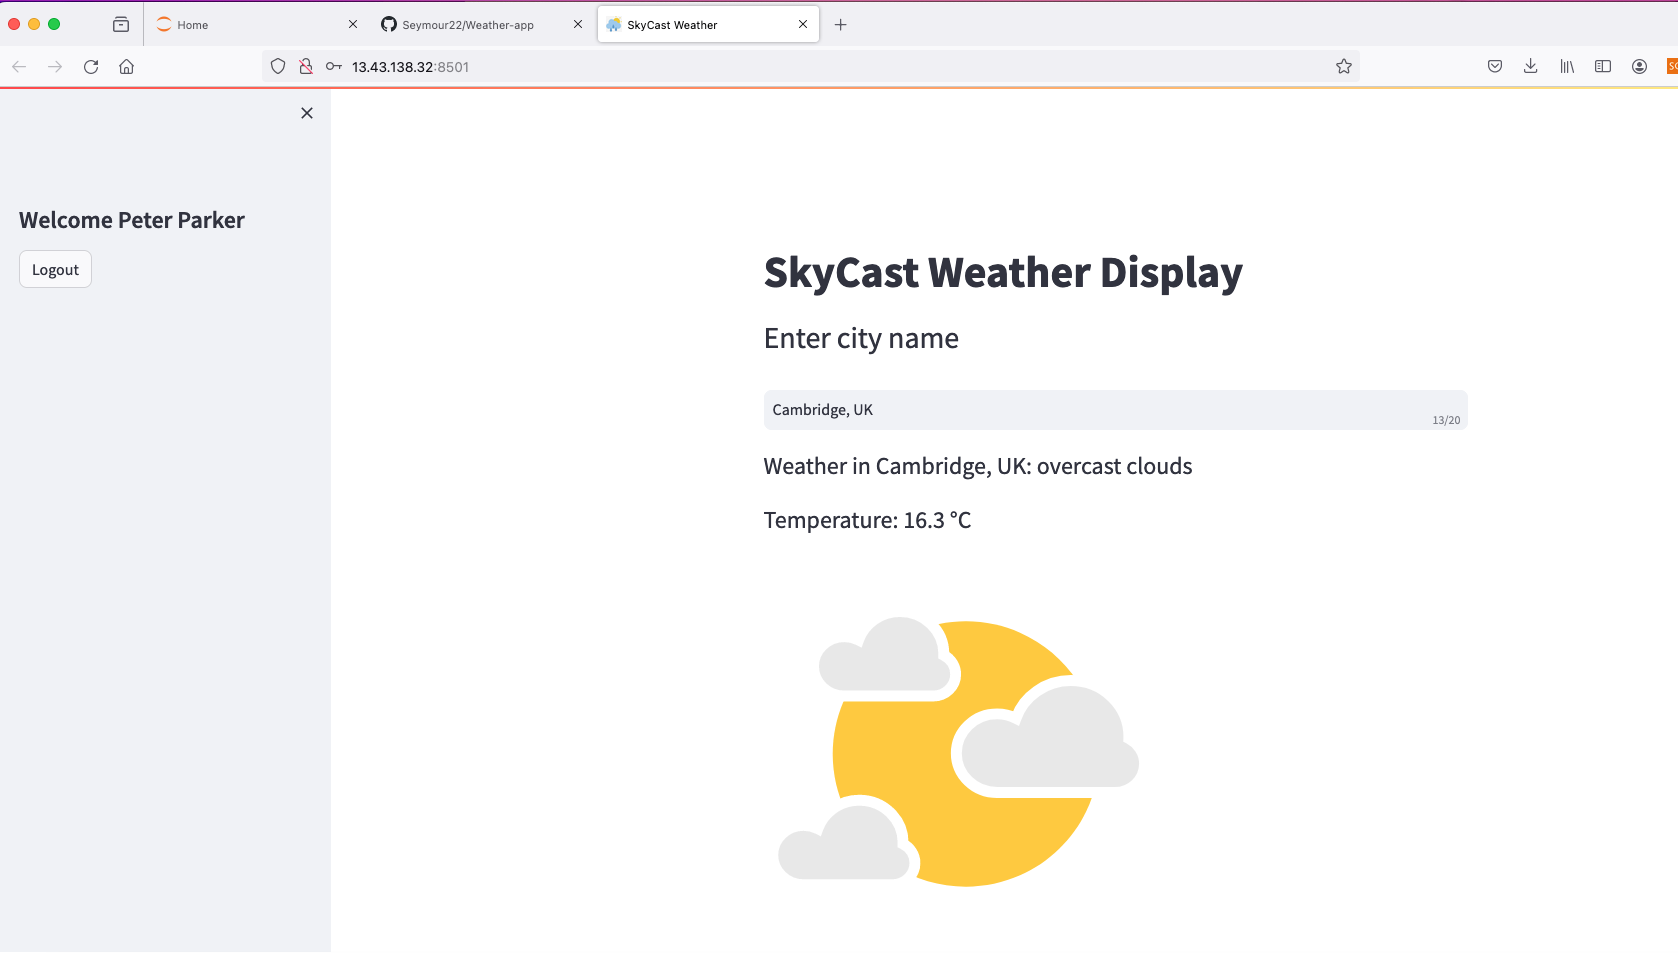
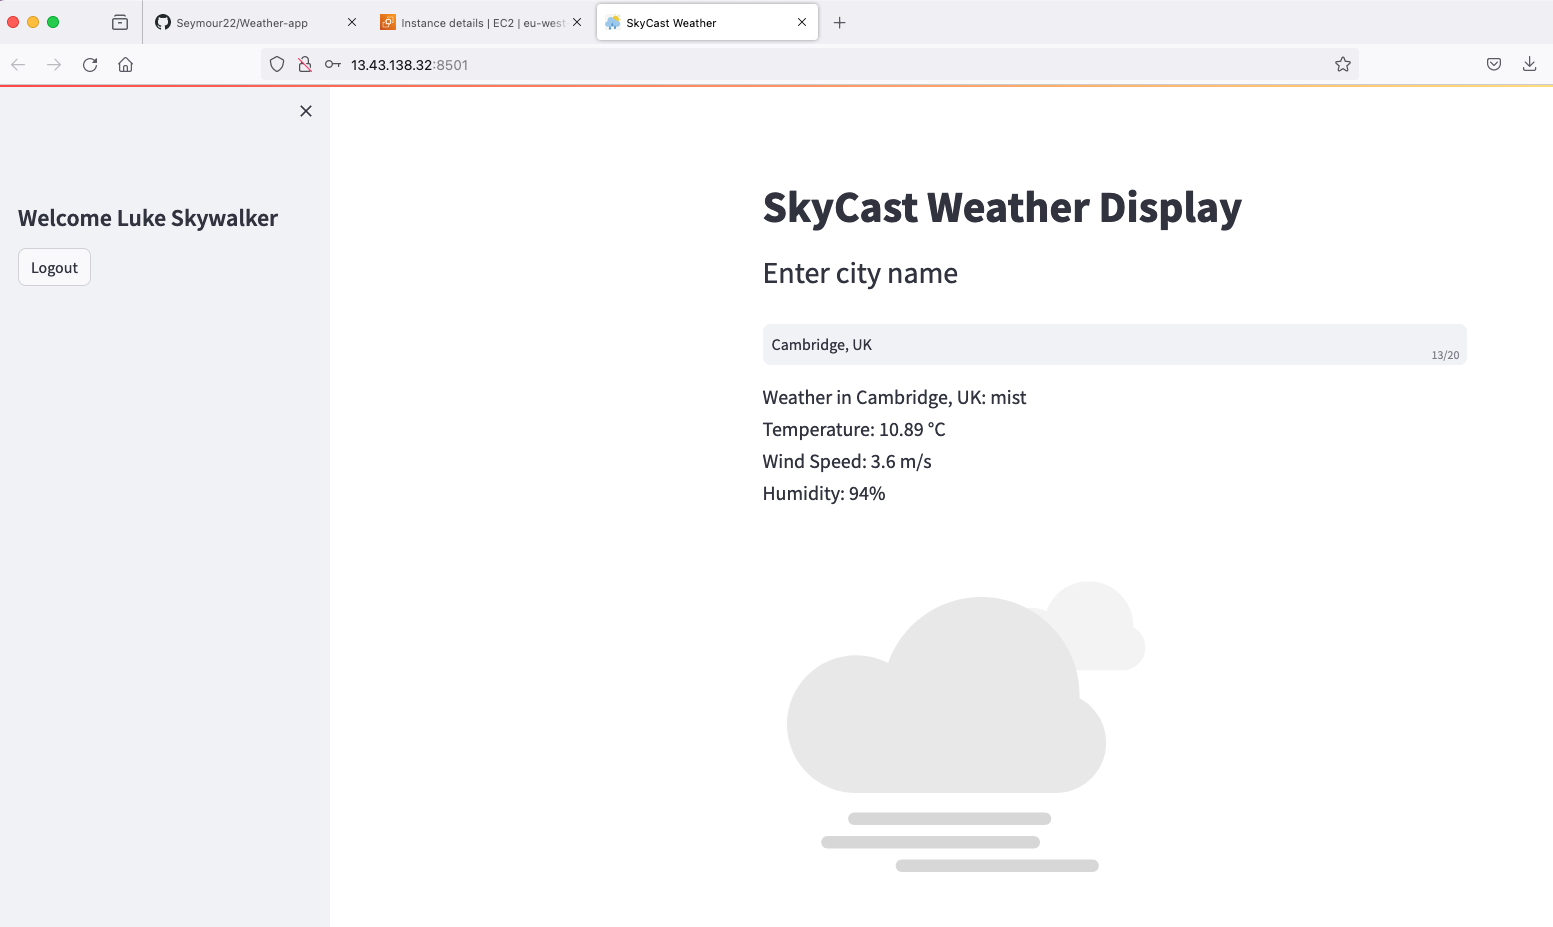
Add files via upload

diff --git a/app.py b/app.py
@@ -1,11 +1,16 @@
 import pickle
+import pandas as pd
 from pathlib import Path
 from PIL import Image
 import streamlit as st
 import streamlit_authenticator as stauth
-import requests
 from streamlit_lottie import st_lottie
 import json
+
+import requests
+import threading
+import time
+
 
 icon = Image.open("icon.png")
 
@@ -23,49 +28,63 @@ defaultweather=load_lottiefile('Animations/defaultweather.json')
 
 # Function to retrieve weather data from API
 def get_weather(city):
-    # Replace 'API_KEY' with your actual API key
     api_key = '82f2c5b88afed0120c09e5532e359422'
     url = f'http://api.openweathermap.org/data/2.5/weather?q={city}&appid={api_key}&units=metric'
     response = requests.get(url)
     data = response.json()
     return data
 
+# Display the weather  info and animation
 def weather_display():
     st.title('SkyCast Weather Display')
-    st.markdown("<p style='font-size: 30px; margin-bottom: 0.1px;'>Enter city name</p>", unsafe_allow_html=True)
+    st.markdown("<p style='font-size: 30px; margin-bottom:0px;'>Enter city name</p>", unsafe_allow_html=True)
     city = st.text_input('', 'Cambridge, UK', max_chars=20)  # Default city, max_chars limits the input length
+    
+    #While True:
     weather_data = get_weather(city)
+    
+    
+    weather_description = weather_data['weather'][0]['description']
+    temperature = weather_data['main']['temp']
+    wind_speed = weather_data['wind']['speed']
+    humidity = weather_data['main']['humidity']
+
     if weather_data['cod'] == 200:
-        st.markdown(f"<p style='font-size: 24px;'>Weather in {city}: {weather_data['weather'][0]['description']}</p>", unsafe_allow_html=True)
-        st.markdown(f"<p style='font-size: 24px;'>Temperature: {weather_data['main']['temp']} °C</p>", unsafe_allow_html=True)
+        st.write(f"<p style='font-size: 20px;margin-bottom:0.01px;'>Weather in {city}: {weather_description}</p>", unsafe_allow_html=True)
+        st.write(f"<p style='font-size: 20px;margin-bottom:0.01px;'>Temperature: {temperature} °C</p>", unsafe_allow_html=True)
+
+        st.write(f"<p style='font-size: 20px;margin-bottom:0.01px;'>Wind Speed: {wind_speed} m/s</p>", unsafe_allow_html=True)
+        st.write(f"<p style='font-size: 20px;'>Humidity: {humidity}%</p>", unsafe_allow_html=True)
+
     else:
         st.error('Failed to retrieve weather data.')
         
-    weather_description = weather_data['weather'][0]['description'].lower()
+    #Make lower case as first word varies Eg Partly cloudy and Cloudy
+    weather_description_l = weather_data['weather'][0]['description'].lower()
     
     
-    if 'cloud' in weather_description:
+    if 'cloud' in weather_description_l:
         st_lottie(partlycloudy,height=400, width=400)
-    elif 'rain' in weather_description:
+    elif 'rain' in weather_description_l:
         st_lottie(raining,height=400, width=400)
-    elif 'snow' in weather_description:
+    elif 'snow' in weather_description_l:
         st_lottie(snow,height=400, width=400)
-    elif 'fog' or 'haze' in weather_description:
+    elif 'fog' or 'haze' in weather_description_l:
         st_lottie(foghaze,height=400, width=400)
-    elif 'sun' in weather_description:
+    elif 'sun' in weather_description_l:
         st_lottie(sunny,height=400, width=400)
     else:
         st_lottie(defaultweather,height=400, width=400)
 
-    
+    #time.sleep(3)
 
 def main():
 
     st.set_page_config(page_title="SkyCast Weather", page_icon=icon)
 
-    # --- USER AUTHENTICATION ---
-    names = ["Peter Parker", "Rebecca Miller"]
-    usernames = ["pparker", "rmiller"]
+    userpw = pd.read_csv('usernopw.csv')
+    names = userpw['Customer name']
+    usernames = userpw['Username']
 
     # load hashed passwords
     file_path = Path(__file__).parent / "hashed_pw.pkl"
@@ -85,10 +104,11 @@ def main():
 
     if authentication_status:
     
+        
         weather_display()
         st.sidebar.title(f"Welcome {name}")
-
         authenticator.logout("Logout", "sidebar")
+            
 
 if __name__ == '__main__':
     main()

diff --git a/generate_keys.py b/generate_keys.py
@@ -1,14 +1,23 @@
 import pickle
 from pathlib import Path
-
+import os
+import pandas as pd
 import streamlit_authenticator as stauth
 
-names = ["Peter Parker", "Rebecca Miller"]
-usernames = ["pparker", "rmiller"]
-passwords = ["abc123", "def456"]
+
+userpw=pd.read_csv('userpw.csv')
+
+names = userpw['Customer name']
+usernames = userpw['Username']
+passwords = userpw['Password']
 
 hashed_passwords = stauth.Hasher(passwords).generate()
+current_dir = os.getcwd()
+file_path = Path(current_dir) / "hashed_pw.pkl"
 
-file_path = Path(__file__).parent / "hashed_pw.pkl"
 with file_path.open("wb") as file:
     pickle.dump(hashed_passwords, file)
+
+usernopw=userpw.copy()
+del usernopw['Password']
+usernopw.to_csv('usernopw.csv')
